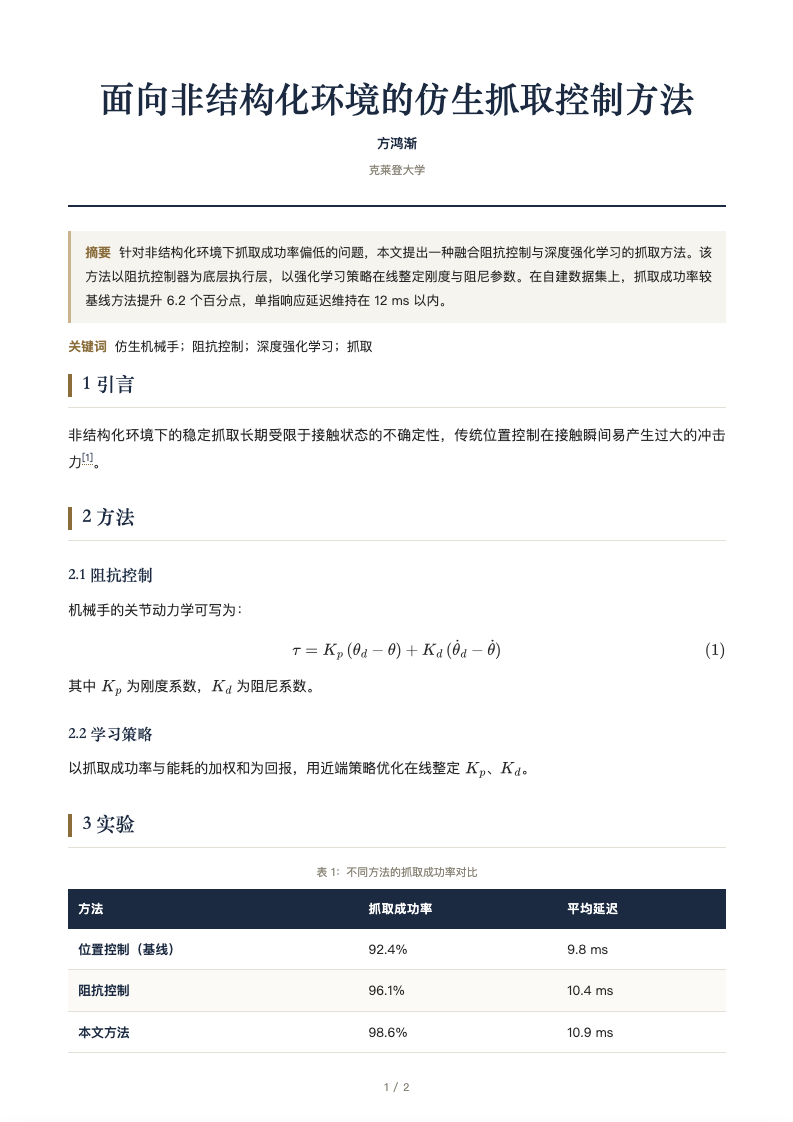
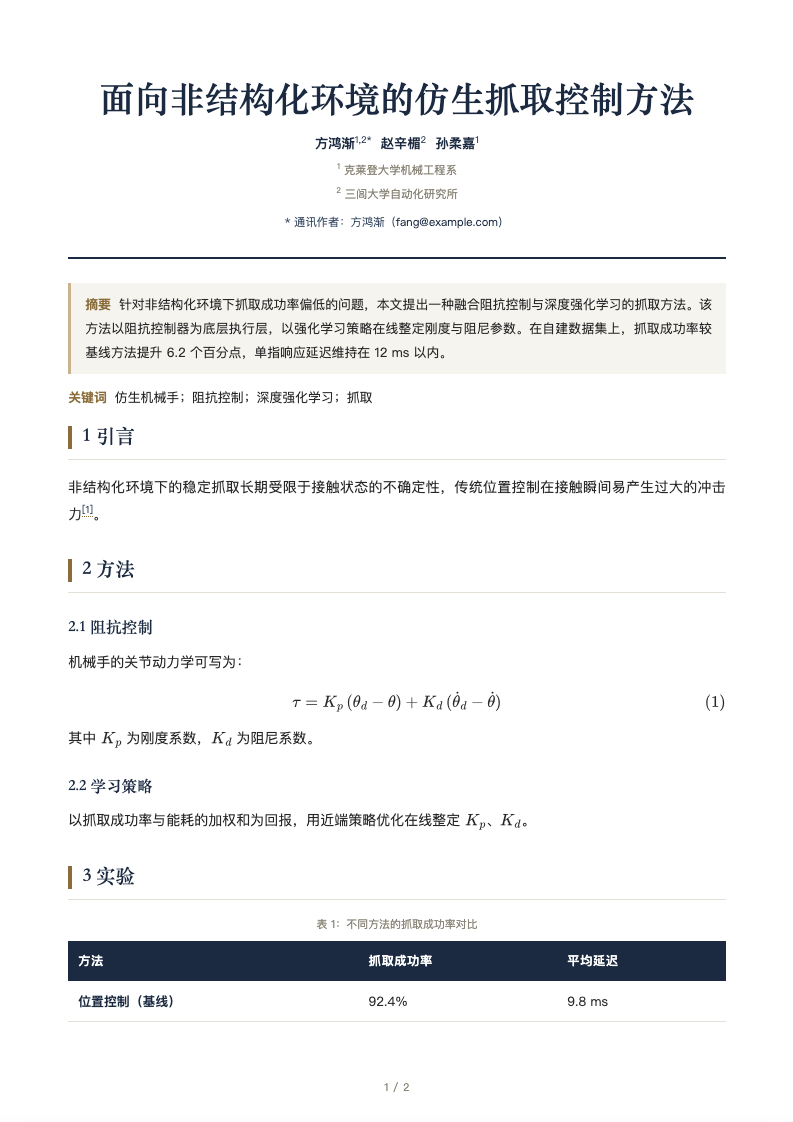
feat(paper): support structured authors and affiliation links

diff --git a/assets/base.css b/assets/base.css
@@ -244,6 +244,10 @@ img { max-width: 100%; height: auto; display: block; margin: 8px auto 14px; }
 
 /* ---------- 学术论文报头（作者 / 摘要 / 关键词） ---------- */
 .authors { margin: 2px 0 10px; font-size: .95em; color: var(--ink-soft); text-align: center; }
+.authors .author-entry { display: inline-block; white-space: nowrap; margin: 0 .35em; }
+.authors .author-mark { font-size: .7em; line-height: 0; vertical-align: super; font-weight: 400; }
+.authors a { border: none; text-decoration: none; }
+.authors .correspondence { margin-top: 6px; font-size: .85em; }
 .authors .author { font-weight: 600; color: var(--ink); }
 .authors .affil { display: block; margin-top: 3px; font-size: .85em; color: var(--muted); }
 .abstract, .keywords { margin: 0 0 10px; padding: 10px 14px; background: var(--tint); border-left: 3px solid var(--accent-soft); font-size: .92em; line-height: 1.85; text-align: justify; }

diff --git a/docs/configuration.md b/docs/configuration.md
@@ -109,3 +109,32 @@ CLI 对应 `--header-left/--header-center/--header-right <text>` 和 `--colophon
 模板与文档类型一一对应；每种类型可提供多个主题，国标可仅保留固定主题。模板库根据当前草稿的有效类型默认选中模板，并以反色类型标签标记；浏览其他模板不更改当前草稿。
 
 编辑器的 `⌘/Ctrl+S` 下载当前 Markdown，`⌘/Ctrl+O` 打开 Markdown，`⌘/Ctrl+P` 下载 PDF，预览获得焦点时也可使用。全屏与窗口共用同步开关；切换布局时保留内容位置。
+
+## 学术论文的作者与单位
+
+旧写法 `author: 姓名` 和 `affiliation: 单位` 继续支持。不同作者对应不同单位时，使用对象列表；作者顺序就是署名顺序，单位按 `affiliations` 列表顺序自动编号：
+
+```yaml
+authors:
+  - name: 张三
+    affiliations: [thu, cas]
+  - name: 李四
+    affiliations: [cas]
+  - name: 王五
+    affiliations: [thu]
+    corresponding: true
+    email: wang@example.com
+affiliations:
+  - id: thu
+    text: 清华大学自动化系，北京
+  - id: cas
+    text: 中国科学院自动化研究所，北京
+```
+
+- 一人可引用多个单位，多人可共享同一单位。ID 是字符串，不需要等于显示序号。
+- 只有一个单位时省略单位上标；多个单位使用数字上标，与对应单位建立文内链接。
+- `corresponding: true` 使用独立的星号标记，并列出通讯作者姓名和可选邮箱。支持多名通讯作者。
+- `authors` 与 `affiliations` 必须同时填写为非空对象列表；每位作者必须有非空 `name` 和非空单位 ID 列表。
+- 新写法不能与旧 `author`／`affiliation` 同时填写，即使旧字段为空也会提示冲突。重复单位 ID、不存在或重复的单位引用、字段拼写及类型错误都会报错。
+- `corresponding` 必须是布尔值；填写邮箱时必须是非空邮箱字符串。姓名与单位按纯文本处理，不执行其中的 HTML。
+- 这些字段使用共用解析和排版流程，适用于 CLI、服务端 WebApp 与静态 WebApp 的学术论文模板。模板识别仍按现有规则（`abstract`／`keywords`），或显式指定 `type: paper`。

diff --git a/examples/paper.md b/examples/paper.md
@@ -1,7 +1,19 @@
 ---
 title: 面向非结构化环境的仿生抓取控制方法
-author: 方鸿渐
-affiliation: 克莱登大学
+authors:
+  - name: 方鸿渐
+    affiliations: [clayton, sanlu]
+    corresponding: true
+    email: fang@example.com
+  - name: 赵辛楣
+    affiliations: [sanlu]
+  - name: 孙柔嘉
+    affiliations: [clayton]
+affiliations:
+  - id: clayton
+    text: 克莱登大学机械工程系
+  - id: sanlu
+    text: 三闾大学自动化研究所
 abstract: 针对非结构化环境下抓取成功率偏低的问题，本文提出一种融合阻抗控制与深度强化学习的抓取方法。该方法以阻抗控制器为底层执行层，以强化学习策略在线整定刚度与阻尼参数。在自建数据集上，抓取成功率较基线方法提升 6.2 个百分点，单指响应延迟维持在 12 ms 以内。
 keywords:
   - 仿生机械手

diff --git a/web/examples/paper.md b/web/examples/paper.md
@@ -1,7 +1,19 @@
 ---
 title: 面向非结构化环境的仿生抓取控制方法
-author: 方鸿渐
-affiliation: 克莱登大学
+authors:
+  - name: 方鸿渐
+    affiliations: [clayton, sanlu]
+    corresponding: true
+    email: fang@example.com
+  - name: 赵辛楣
+    affiliations: [sanlu]
+  - name: 孙柔嘉
+    affiliations: [clayton]
+affiliations:
+  - id: clayton
+    text: 克莱登大学机械工程系
+  - id: sanlu
+    text: 三闾大学自动化研究所
 abstract: 针对非结构化环境下抓取成功率偏低的问题，本文提出一种融合阻抗控制与深度强化学习的抓取方法。该方法以阻抗控制器为底层执行层，以强化学习策略在线整定刚度与阻尼参数。在自建数据集上，抓取成功率较基线方法提升 6.2 个百分点，单指响应延迟维持在 12 ms 以内。
 keywords:
   - 仿生机械手

diff --git a/templates/paper.md b/templates/paper.md
@@ -6,8 +6,20 @@
 -->
 ---
 title: 论文标题
-author: 方鸿渐
-affiliation: 克莱登大学
+authors:
+  - name: 方鸿渐
+    affiliations: [clayton, sanlu]
+    corresponding: true
+    email: fang@example.com
+  - name: 赵辛楣
+    affiliations: [sanlu]
+  - name: 孙柔嘉
+    affiliations: [clayton]
+affiliations:
+  - id: clayton
+    text: 克莱登大学机械工程系
+  - id: sanlu
+    text: 三闾大学自动化研究所
 abstract: 一段 200 字左右的摘要，说明问题、方法与主要结果。
 keywords:
   - 关键词一
